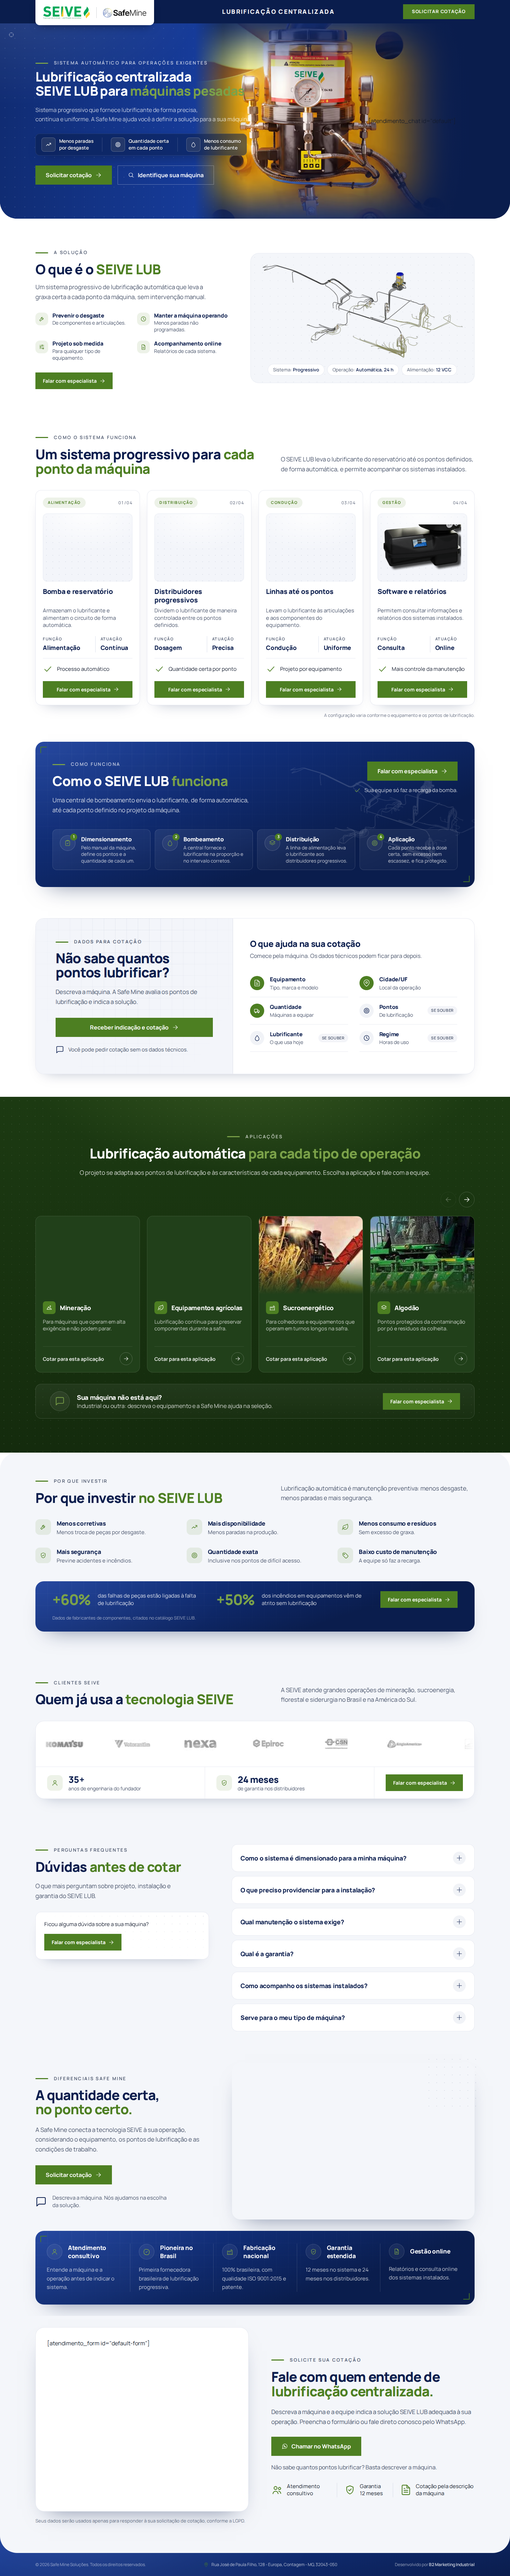
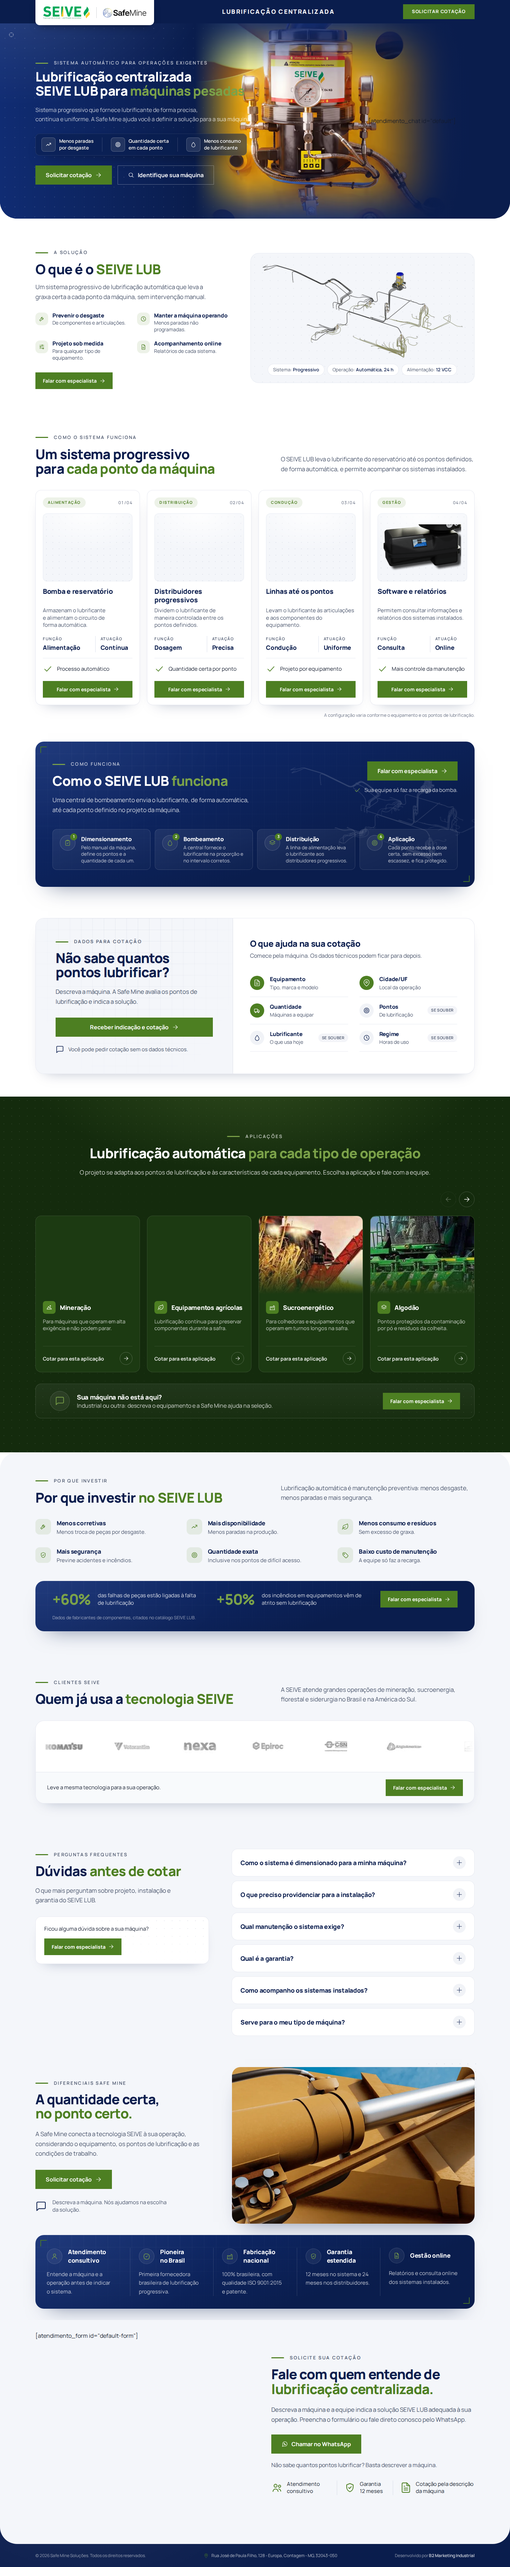
style: paleta enxuta, cotação só com o shortcode e clientes sem números
- Superfícies escuras sempre em navy 900, com gradiente até o navy médio;
  o azul 800 sai do hero, do rodapé (agora liso) e dos painéis. Faixa de
  aplicações em dois verdes; um único cinza claro.
- Cotação: sem card branco e sem a nota de LGPD.
- Títulos com text-wrap balance e textos com pretty (sem palavra sozinha).
- Clientes: saem os números; pé do card com uma linha e o CTA.

diff --git a/src/styles/global.css b/src/styles/global.css
@@ -9,6 +9,8 @@
    para #4d7f22, que dá 4,8:1 com texto branco — o verde original fica em 3:1.
    --------------------------------------------------------------------------- */
 @theme {
+  /* Navy: 900 é a base de toda superfície escura; o tom médio só entra em gradientes, em
+     direção ao 900; o 800 (azul da marca) fica reservado ao logo e a detalhes pequenos. */
   --color-primary-dark: #102c73;
   --color-primary-dark-800: #163b99;
   --color-primary-dark-900: #0a1d4d;
@@ -17,14 +19,11 @@
   /* Verde original da marca: destaque de texto e ícones sobre fundos escuros (navy e verde). */
   --color-accent-orange-light: #7ba249;
 
-  /* Verde escuro da marca: faixa de aplicações (fundo e cards). */
+  /* Verde escuro da marca: faixa de aplicações (900 é o fundo, 800 os cards). */
   --color-brand-green-900: #142b0d;
   --color-brand-green-800: #1c3a12;
-  --color-brand-green-700: #21401a;
-
-  /* Placa clara de apoio (atrás de fotos, esquemas e do lado de texto de painéis). */
-  --color-surface: #f3f5fa;
   --color-neutral-light: #ffffff;
+  /* Cinza-azulado único das superfícies claras: fundo cinza das seções e placas. */
   --color-neutral-gray-100: #f4f6fa;
   --color-neutral-gray-200: #a0a0a0;
   --color-ink: #141c2e;
@@ -51,6 +50,21 @@
     letter-spacing: -0.015em;
   }
 
+  /* Sem palavra sozinha na última linha: títulos equilibrados, textos com quebra "pretty". */
+  h1,
+  h2,
+  h3 {
+    text-wrap: balance;
+  }
+
+  p,
+  li,
+  dd,
+  dt,
+  figcaption {
+    text-wrap: pretty;
+  }
+
   ::selection {
     @apply bg-accent-orange text-neutral-light;
   }
@@ -63,15 +77,12 @@
 
 /* Fundo navy com brilho radial: hero, painéis, bloco de diferenciais e footer. */
 @utility navy-premium {
-  background-color: var(--color-primary-dark);
-  background-image:
-    radial-gradient(1200px 520px at 16% -10%, rgb(255 255 255 / 0.08) 0%, transparent 55%),
-    linear-gradient(
-      165deg,
-      var(--color-primary-dark-800) 0%,
-      var(--color-primary-dark) 50%,
-      var(--color-primary-dark-900) 100%
-    );
+  background-color: var(--color-primary-dark-900);
+  background-image: radial-gradient(
+    1200px 520px at 16% -10%,
+    rgb(255 255 255 / 0.05) 0%,
+    transparent 55%
+  );
 }
 
 /* Malha de blueprint esmaecida nas bordas, usada sobre navy. */
@@ -171,7 +182,7 @@
 
 /* Placa clara onde as fotos de produto se apoiam. */
 @utility surface-plate {
-  background-color: var(--color-surface);
+  background-color: var(--color-neutral-gray-100);
   background-image:
     radial-gradient(120% 90% at 50% 0%, rgb(255 255 255 / 0.9) 0%, transparent 60%),
     radial-gradient(circle, rgb(10 29 77 / 0.1) 1px, transparent 1.2px);
@@ -185,7 +196,7 @@
   background-color: var(--color-primary-dark-900);
   background-image:
     radial-gradient(900px 480px at 0% 0%, rgb(255 255 255 / 0.07) 0%, transparent 60%),
-    linear-gradient(160deg, var(--color-primary-dark-800) 0%, var(--color-primary-dark-900) 70%);
+    linear-gradient(160deg, var(--color-primary-dark) 0%, var(--color-primary-dark-900) 70%);
 }
 
 /* Sombra de painéis e fotos grandes. */

diff --git a/src/data/sections/clientes.ts b/src/data/sections/clientes.ts
@@ -4,12 +4,9 @@
  * Logos da página 5 do catálogo SEIVE LUB 2024: são clientes da fabricante, não da
  * Safe Mine, e entraram com o aval da B2 em 01/11/2026 (docs/BRIEFING.md). Vieram do PDF
  * em baixa resolução (cerca de 75×22 px cada); troque pelos arquivos originais quando
- * chegarem. Nesta LP são 18 logos em carrossel, acima dos 4–8 da biblioteca, e 2 números
- * em vez de 3 (a contagem de segmentos saiu a pedido do usuário, 02/11/2026).
- *
- * Números: catálogo p. 2 (35 anos do fundador) e p. 15 (garantia).
+ * chegarem. Nesta LP são 18 logos em carrossel, acima dos 4–8 da biblioteca, e sem os
+ * números da biblioteca (saíram a pedido do usuário em 03/11/2026).
  */
-import type { IconName } from '@data/icons'
 import type { Photo } from '@data/types'
 
 import vale from '@assets/clientes/vale.png'
@@ -30,12 +27,6 @@ import gerdau from '@assets/clientes/gerdau.png'
 import usiminas from '@assets/clientes/usiminas.png'
 import arcelor from '@assets/clientes/arcelormittal.png'
 import vallourec from '@assets/clientes/vallourec.png'
-
-export interface Metric {
-  icon: IconName
-  value: string
-  label: string
-}
 
 const logo = (src: Photo['src'], name: string) => ({ src, alt: name })
 
@@ -65,15 +56,13 @@ export const clients = {
     logo(arcelor, 'ArcelorMittal'),
     logo(vallourec, 'Vallourec'),
   ],
-  metrics: [
-    { icon: 'user', value: '35+', label: 'anos de engenharia do fundador' },
-    { icon: 'shield', value: '24 meses', label: 'de garantia nos distribuidores' },
-  ],
+  /** Linha ao lado do CTA, no pé do carrossel. */
+  ctaText: 'Leve a mesma tecnologia para a sua operação.',
 } as const satisfies {
   eyebrow: string
   title: string
   titleHighlight: string
   text: string
   logos: readonly Photo[]
-  metrics: readonly [Metric, Metric]
+  ctaText: string
 }

diff --git a/docs/BRIEFING.md b/docs/BRIEFING.md
@@ -114,3 +114,10 @@ A pedido do usuário, com capturas da LP da COAIR como referência: o "Como func
 - Utilitários: `navy-panel` (um único gradiente para Como funciona, faixa de números e Diferenciais), `panel-shadow` (painéis e fotos grandes), `card-shadow` (cards), `icon-chip` (selo de ícone das listas sobre fundo claro).
 - `Eyebrow.astro` é a fonte única do rótulo acima dos títulos: traço de 36px, 12/13px, tracking 0.18em; `tone="light"` sobre fundos escuros. Substituiu as 9 versões escritas à mão.
 - Destaque do título: `accent-orange` em fundo claro, `accent-orange-light` em fundo escuro. Parágrafo de abertura das seções em 16/17px. Raio de 1.5rem em painéis e fotos grandes, 1rem em cards. Todos os CTAs com cantos retos.
+
+## Paleta enxuta, cotação e clientes (03/11/2026)
+
+- Paleta: superfícies escuras sempre em navy 900, com gradiente só até o navy médio (`primary-dark`); o azul 800 saiu dos fundos (hero, rodapé, painéis). Verde: ação `#4d7f22` (hover `#3f6a1b`), verde da marca `#7ba249` só sobre fundo escuro, e a faixa de aplicações em dois tons (`brand-green-900` fundo, `800` cards). Um único cinza claro (`neutral-gray-100`), no lugar do `#f3f5fa` quase idêntico.
+- Cotação: só o espaço do shortcode, sem card branco, e sem a nota de LGPD, a pedido do usuário. O formulário do plugin deve trazer o próprio aviso de privacidade.
+- Tipografia: títulos com `text-wrap: balance` e textos com `pretty`, para não deixar palavra sozinha na última linha.
+- Clientes: saíram os números (35+ anos e 24 meses); o card tem o carrossel e, no pé, uma linha de texto com o CTA.
